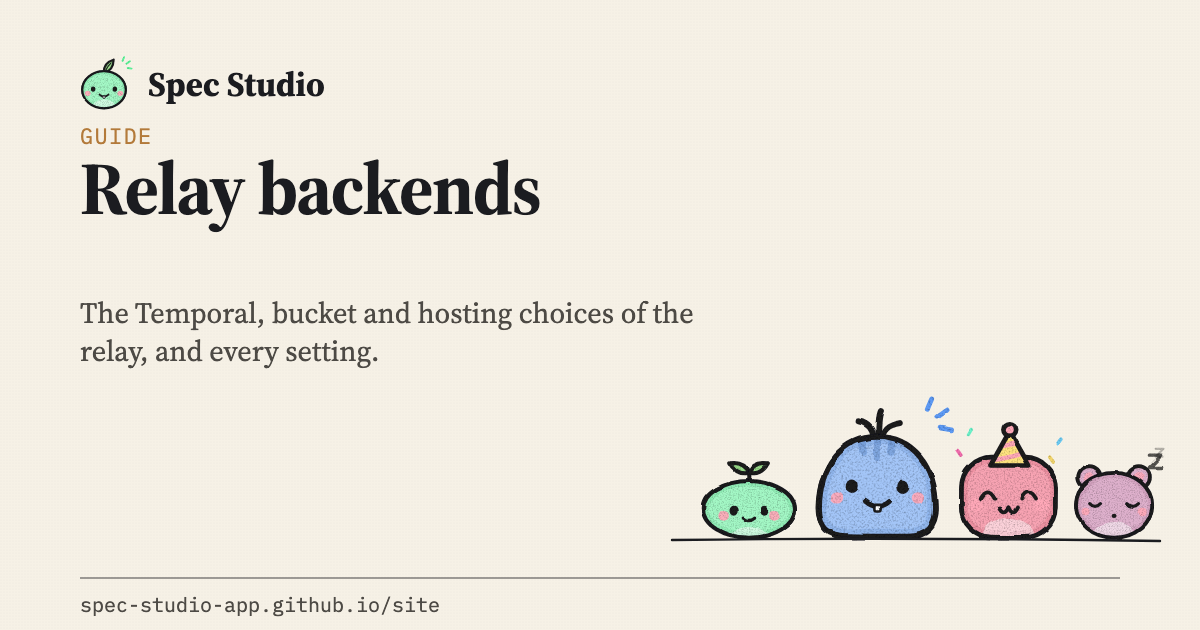
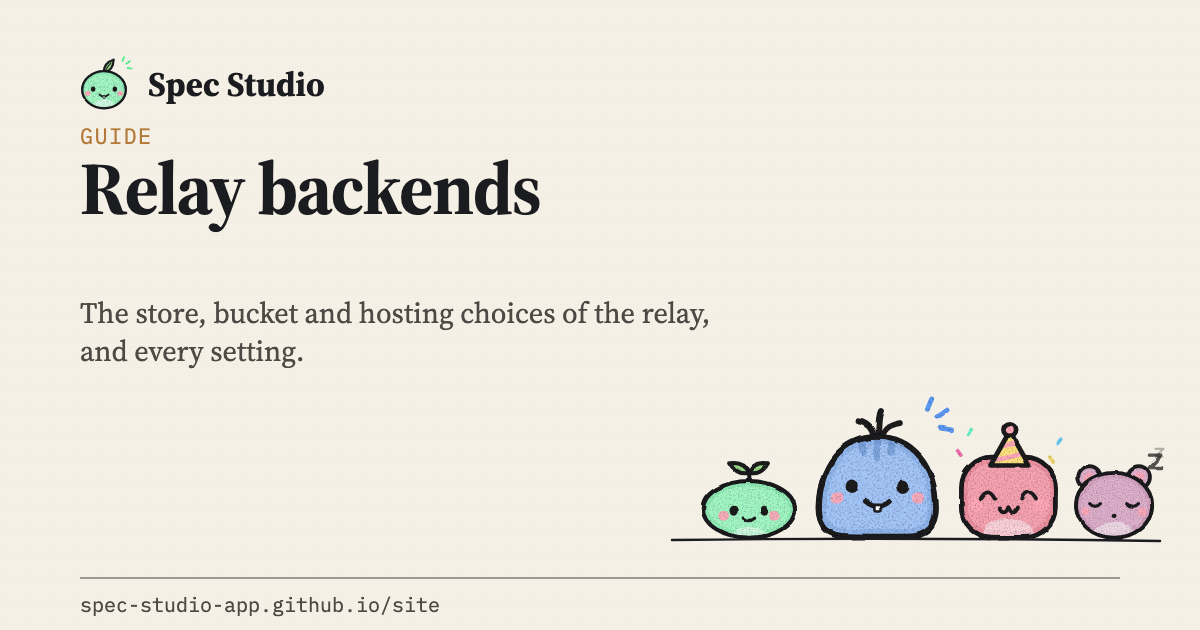
Pluggable relay store: the relay guides (#4)
* Relay guides: the JSON store by default, Temporal as an option (relay 0.4.0)

* Guide tests: the new step and section headings

* Relay guides: a store switch uses studio agent unpair --force, then pair

* Share card and video script: the store, not Temporal only (review)

Changed region(s): [[0.0617, 0.4825, 0.5858, 0.6032]]

diff --git a/tests/guides.spec.ts b/tests/guides.spec.ts
@@ -106,8 +106,8 @@ test('the relay guide gives the steps in order, with the Remote Relay screenshot
 	await page.goto('./guides/relay/');
 	const steps = (await headings(page)).filter((h) => h.startsWith('Step '));
 	expect(steps).toEqual([
-		'Step 1: Make the secrets',
-		'Step 2: Choose a Temporal backend',
+		'Step 1: Make the password hash',
+		'Step 2: Choose the store',
 		'Step 3: Choose a bucket (optional)',
 		'Step 4: Run the relay',
 		'Step 5: Pair the Mac',
@@ -130,9 +130,9 @@ test('the tools table gives each tool online and offline', async ({ page }) => {
 });
 
 // R5.S1, R5.S2 and R5.S3
-test('the backends guide covers each Temporal, bucket and run choice', async ({ page }) => {
+test('the backends guide covers each store, bucket and run choice', async ({ page }) => {
 	await page.goto('./guides/backends/');
-	expect(await headings(page)).toEqual(['Temporal', 'The attachment bucket', 'Ways to run the relay', 'Every setting']);
+	expect(await headings(page)).toEqual(['The JSON store', 'The Temporal store', 'Switch between stores', 'The attachment bucket', 'Ways to run the relay', 'Every setting']);
 	expect(await headings(page, 'h3')).toEqual([
 		'Temporal Cloud with an API key',
 		'Temporal Cloud with mTLS',

diff --git a/src/guides/backends.md b/src/guides/backends.md
@@ -1,14 +1,37 @@
 ---
 title: Relay backends
-summary: The Temporal, bucket and hosting choices of the relay, and every setting.
+summary: The store, bucket and hosting choices of the relay, and every setting.
 order: 4
 ---
 
-The relay keeps no state of its own. It plugs into two backends that you choose: a **Temporal** namespace that holds the copy of each spec, the messages and the sign-ins, and an optional **bucket** that holds the attachments. You also choose **how to run** it. This guide gives the settings for each choice. The relay reads every setting from the environment.
+The relay plugs into two backends that you choose: a **store** that holds the copy of each spec, the messages and the sign-ins, and an optional **bucket** that holds the attachments. The store is **JSON files** on a volume (the default) or your own **Temporal** namespace. You also choose **how to run** the relay. This guide gives the settings for each choice. The relay reads every setting from the environment.
 
-## Temporal
+`RELAY_STORE` selects the store: `json` or `temporal`. When `RELAY_STORE` is not set, the relay uses the Temporal store if `TEMPORAL_ADDRESS` is set, else the JSON store. At start, the relay logs the store and the reason (`store_selected`).
 
-The relay needs one Temporal namespace. Two relays can share a namespace when each has its own `DEPLOY_ID`.
+## The JSON store
+
+The JSON store is the default. The relay is one container and a volume, with no other service. There is no Temporal, there are no payload keys and there are no codec endpoints.
+
+The relay keeps its state in `RELAY_DATA_DIR` (default `/data`). Mount a persistent volume there: without a volume, the state is lost with the container. The image runs as uid 1000, and that user must be able to write to the folder. When it cannot, the relay stops at start with a message that names `RELAY_DATA_DIR`.
+
+```sh
+RELAY_STORE=json
+RELAY_DATA_DIR=/data
+```
+
+Both settings are optional: with no Temporal settings, the relay uses the JSON store in `/data`.
+
+The files are not encrypted, and they hold only hashes of the secrets and the tokens. Protect the volume as you protect the relay. Run one relay process on the volume: only that process writes the files. Run `relay pair-code` where the relay runs, on the same data folder.
+
+## The Temporal store
+
+Use the Temporal store when you already run Temporal. Set `TEMPORAL_ADDRESS` (or `RELAY_STORE=temporal` with `TEMPORAL_ADDRESS`), `PAYLOAD_KEYS` and the other Temporal settings below. The relay needs one Temporal namespace. Two relays can share a namespace when each has its own `DEPLOY_ID`.
+
+Make the payload keys. The relay encrypts every Temporal payload with them. Keep a copy in a safe place: without the same keys, the relay cannot read its data. See [PAYLOAD_KEYS](#payload-keys).
+
+```sh
+docker run --rm ghcr.io/spec-studio-app/relay keys
+```
 
 ### Temporal Cloud with an API key
 
@@ -71,11 +94,21 @@ TEMPORAL_NAMESPACE=studio-relay
 TEMPORAL_AUTH=plain
 ```
 
-To try the relay on one machine, Docker Compose can run a local Temporal dev server for you (see [Docker Compose](#docker-compose)).
+To try the Temporal store on one machine, Docker Compose can run a local Temporal dev server for you (see [Docker Compose](#docker-compose)).
+
+## Switch between stores
+
+The relay does not move data from one store to the other. A relay on a new store starts empty:
+
+- The Mac fills the new store with a short first sync of each spec (the state of the spec, its last 20 activity lines and its messages for Claude AI) when it has no sync cursors. So on the Mac, run `studio agent unpair --force` (it removes the pairing and the cursors on this Mac only), then pair again (see [Pair the Mac](/guides/relay/#step-5-pair-the-mac)).
+- The messages that wait for the Mac in the old store are lost. The messages for Claude AI that Claude AI did not read are lost too. So switch when no message waits: the Mac is online and has each message, and Claude AI read its messages.
+- The pairing and the sign-ins are in the store too. After the switch, sign in to the connector in Claude AI again.
+
+An upgrade from relay 0.3 keeps Temporal: the old settings set `TEMPORAL_ADDRESS`, so the relay uses the Temporal store. With the Compose `dev` profile of 0.3, add `TEMPORAL_ADDRESS=temporal:7233` to `.env`, because the 0.4 `compose.yaml` does not set it.
 
 ## The attachment bucket
 
-Attachments go to a private S3-compatible bucket, never into Temporal. The relay deletes the attachments of a spec when the spec is merged or dropped. Set all four of `BUCKET_ENDPOINT`, `BUCKET_NAME`, `BUCKET_ACCESS_KEY` and `BUCKET_SECRET_KEY`, or none.
+Attachments go to a private S3-compatible bucket, never into the store. The relay deletes the attachments of a spec when the spec is merged or dropped. Set all four of `BUCKET_ENDPOINT`, `BUCKET_NAME`, `BUCKET_ACCESS_KEY` and `BUCKET_SECRET_KEY`, or none.
 
 ### Cloudflare R2
 
@@ -129,51 +162,86 @@ Get `compose.yaml` from the [relay repo](https://github.com/spec-studio-app/rela
 ```sh
 PUBLIC_URL=https://relay.example.com
 OWNER_PASSWORD_HASH='$2b$12$...'
-PAYLOAD_KEYS=data:data-20261123:...,config:config-20261123:...
 ```
 
-To try the relay with a local Temporal dev server (data in a Docker volume, the Temporal Web UI on port 8233 of this machine only, because it has no sign-in):
-
-```sh
-docker compose --profile dev up
-```
-
-With your own Temporal, set `TEMPORAL_ADDRESS` and the other Temporal settings in `.env`, then:
+Then run:
 
 ```sh
 docker compose up
 ```
 
+The relay uses the JSON store, with its data in the Docker volume `relay-data`.
+
+With your own Temporal, also set `TEMPORAL_ADDRESS`, `PAYLOAD_KEYS` and the other Temporal settings in `.env`, then run `docker compose up`.
+
+To try the Temporal store with a local Temporal dev server (data in a Docker volume, the Temporal Web UI on port 8233 of this machine only, because it has no sign-in), add these settings to `.env`:
+
+```sh
+TEMPORAL_ADDRESS=temporal:7233
+PAYLOAD_KEYS=data:data-20261123:...,config:config-20261123:...
+```
+
+Then run:
+
+```sh
+docker compose --profile dev up
+```
+
 ### Helm
+
+With the JSON store (the default), the chart makes a PersistentVolumeClaim and keeps it when you remove the release:
 
 ```sh
 helm install relay oci://ghcr.io/spec-studio-app/charts/relay --version <version> \
   --set publicUrl=https://relay.example.com \
-  --set temporal.address=temporal-frontend.temporal.svc:7233 \
-  --set temporal.namespace=studio-relay \
   --set bucket.endpoint=https://<account id>.r2.cloudflarestorage.com \
   --set bucket.name=spec-studio-relay \
   --set existingSecret=relay-secrets
 ```
 
-The Secret `existingSecret` has the keys `OWNER_PASSWORD_HASH`, `PAYLOAD_KEYS`, and as needed `TEMPORAL_API_KEY`, `TEMPORAL_TLS_CERT`, `TEMPORAL_TLS_KEY`, `BUCKET_ACCESS_KEY` and `BUCKET_SECRET_KEY`. Or leave `existingSecret` empty and set `secrets.*` in your values: the chart then makes the Secret. Set `ingress.enabled=true` and `ingress.host` for an Ingress. The chart's `values.yaml` lists every value.
+These values set the volume:
+
+- `persistence.size`: the size of the claim. Default `1Gi`.
+- `persistence.storageClass`: the storage class. Empty: the default storage class of the cluster.
+- `persistence.existingClaim`: the name of a claim that you made. Empty: the chart makes the claim.
+
+The chart runs one replica with the `Recreate` strategy, so an old pod and a new pod never write the files at the same time.
+
+With the Temporal store, set `store=temporal` and the Temporal values:
+
+```sh
+helm install relay oci://ghcr.io/spec-studio-app/charts/relay --version <version> \
+  --set publicUrl=https://relay.example.com \
+  --set store=temporal \
+  --set temporal.address=temporal-frontend.temporal.svc:7233 \
+  --set temporal.namespace=studio-relay \
+  --set existingSecret=relay-secrets
+```
+
+When `store` is empty, the chart uses the rule of the relay: `temporal` when `temporal.address` is set, else `json`.
+
+The Secret `existingSecret` has the key `OWNER_PASSWORD_HASH`, and as needed `PAYLOAD_KEYS` (Temporal store), `TEMPORAL_API_KEY`, `TEMPORAL_TLS_CERT`, `TEMPORAL_TLS_KEY`, `BUCKET_ACCESS_KEY` and `BUCKET_SECRET_KEY`. Or leave `existingSecret` empty and set `secrets.*` in your values: the chart then makes the Secret. Set `ingress.enabled=true` and `ingress.host` for an Ingress. The chart's `values.yaml` lists every value.
 
 ### Docker
 
 ```sh
-docker run -d --name relay -p 8760:8760 --env-file relay.env ghcr.io/spec-studio-app/relay:<version>
+docker run -d --name relay -p 8760:8760 -v relay-data:/data --env-file relay.env ghcr.io/spec-studio-app/relay:<version>
 ```
+
+The volume `relay-data` holds the files of the JSON store. With the Temporal store, the relay does not use it.
 
 ## Every setting
 
-A setting that is missing or not valid stops the start. The message names the setting and never shows its value.
+A setting that is missing or not valid stops the start. The message names the setting and never shows its value. The settings marked "Temporal" are required only with the Temporal store. The JSON store ignores the Temporal settings.
 
 | Setting | Required | Description |
 |---|---|---|
 | `PUBLIC_URL` | yes | The public origin of the relay. It is the OAuth issuer. |
 | `OWNER_PASSWORD_HASH` | yes | The bcrypt hash of the owner password. |
-| `PAYLOAD_KEYS` | yes | The codec keys, from `relay keys`. See below. |
-| `TEMPORAL_ADDRESS` | yes | `host:port` of Temporal. |
+| `RELAY_STORE` | no | `json` or `temporal`. Default: `temporal` when `TEMPORAL_ADDRESS` is set, else `json`. |
+| `RELAY_DATA_DIR` | no | The folder of the JSON store. Default `/data`. |
+| `PAYLOAD_KEYS` | Temporal | The codec keys, from `relay keys`. See below. |
+| `TEMPORAL_ADDRESS` | Temporal | `host:port` of Temporal. |
 | `TEMPORAL_NAMESPACE` | no | The namespace. Default `default`. |
 | `TEMPORAL_AUTH` | no | `plain`, `tls`, `mtls` or `api-key`. Default: from the other Temporal settings, else `plain`. |
 | `TEMPORAL_API_KEY` | no | The API key (Temporal Cloud). |
@@ -183,14 +251,14 @@ A setting that is missing or not valid stops the start. The message names the se
 | `BUCKET_ENDPOINT`, `BUCKET_NAME`, `BUCKET_ACCESS_KEY`, `BUCKET_SECRET_KEY` | no | The attachment bucket. Set all four, or none. |
 | `BUCKET_REGION` | no | The bucket region. Default `auto` (R2). |
 | `ATTACHMENT_MAX_BYTES` | no | The largest attachment. Default 10485760 (10 MB). |
-| `UI_ORIGIN` | no | The origin of the Temporal Web UI for the codec endpoints. |
+| `UI_ORIGIN` | no | The origin of the Temporal Web UI for the codec endpoints (Temporal store). |
 | `EXTRA_REDIRECT_URIS` | no | Comma-separated OAuth redirect URIs, besides the claude.ai and claude.com callbacks and loopback addresses. |
 | `PORT` | no | The HTTP port. Default 8760. |
 | `CALL_TIMEOUT_MS` | no | How long a tool call waits for the Mac. Default 90000. |
 
 ### PAYLOAD_KEYS
 
-A comma-separated list of `<scope>:<key id>:<base64 key>`. The scope is `data` (the spec workflows) or `config` (the relay-config workflow). Each key is 32 random bytes; `relay keys` makes a new value. The first key of each scope encrypts. All keys of a scope decrypt, so you can change a key: put the new key first and keep the old key after it.
+The Temporal store only. A comma-separated list of `<scope>:<key id>:<base64 key>`. The scope is `data` (the spec workflows) or `config` (the relay-config workflow). Each key is 32 random bytes; `relay keys` makes a new value. The first key of each scope encrypts. All keys of a scope decrypt, so you can change a key: put the new key first and keep the old key after it.
 
 ```sh
 PAYLOAD_KEYS=data:data-2:<new>,data:data-1:<old>,config:config-1:<key>

diff --git a/src/guides/relay.md b/src/guides/relay.md
@@ -8,35 +8,30 @@ order: 3
 
 The relay is a remote MCP server that you host yourself. With it, Claude AI (claude.ai, the Claude app on your phone, or Claude Code on another computer) can list, read, make and start the specs of Spec Studio on your Mac, and send messages to the Claude session of a spec.
 
-The relay keeps a copy of each spec in your own Temporal namespace. So Claude AI can read your specs and leave messages while the Mac is offline. The messages wait in the relay, and the Mac gets them when it connects again.
+The relay keeps a copy of each spec in a store. The default store is JSON files on a volume. You can also use your own Temporal namespace. So Claude AI can read your specs and leave messages while the Mac is offline. The messages wait in the relay, and the Mac gets them when it connects again.
 
 The Mac opens no port. The Spec Studio agent on the Mac connects out to the relay.
 
 ```text
 Claude AI ──HTTPS (OAuth)──▶ relay ◀──WebSocket── studio agent (Mac)
                                │
-                 Temporal (spec mirror, inboxes, sign-ins)
-                 S3 bucket (attachments)
+                 JSON files on a volume, or Temporal (spec mirror, inboxes, sign-ins)
+                 S3 bucket (attachments, optional)
 ```
 
 The relay is for you only. It has one owner password and no sign-up. Its code is public in [spec-studio-app/relay](https://github.com/spec-studio-app/relay).
 
 ## What you need
 
-- A Temporal namespace: Temporal Cloud, or a Temporal that you host.
 - A public HTTPS address for the relay, for example `https://relay.example.com`.
-- Optional: a private S3-compatible bucket for attachments.
 - Docker, or a Kubernetes cluster with Helm.
+- For the JSON store (the default): a persistent volume for the data folder of the relay.
+- For the Temporal store (optional): a Temporal namespace, on Temporal Cloud or on a Temporal that you host.
+- Optional: a private S3-compatible bucket for attachments.
 
-[Relay backends](/guides/backends/) explains each Temporal and bucket choice and every setting.
+[Relay backends](/guides/backends/) explains each store, bucket and hosting choice, and every setting.
 
-## Step 1: Make the secrets
-
-Make the payload keys. The relay encrypts every Temporal payload with them. Keep a copy in a safe place: without the same keys, the relay cannot read its data.
-
-```sh
-docker run --rm ghcr.io/spec-studio-app/relay keys
-```
+## Step 1: Make the password hash
 
 Make the bcrypt hash of the owner password. You type this password on the relay's sign-in page. The command asks for the password, so it does not go into your shell history:
 
@@ -44,19 +39,30 @@ Make the bcrypt hash of the owner password. You type this password on the relay'
 read -rs RELAY_PASSWORD && printf '%s' "$RELAY_PASSWORD" | docker run --rm -i ghcr.io/spec-studio-app/relay password-hash; unset RELAY_PASSWORD
 ```
 
-## Step 2: Choose a Temporal backend
+## Step 2: Choose the store
 
-Use Temporal Cloud, or a Temporal that you host. On Temporal Cloud, add the relay's search attributes to the namespace first; a self-hosted Temporal gets them from the relay at start. See [Temporal](/guides/backends/#temporal) for the settings of each.
+The relay keeps its copy of the specs, the messages and the sign-ins in one of two stores. `RELAY_STORE` selects the store: `json` or `temporal`. When `RELAY_STORE` is not set, the relay uses the Temporal store if `TEMPORAL_ADDRESS` is set, else the JSON store.
+
+- **The JSON store** (the default): JSON files in `RELAY_DATA_DIR` (default `/data`). Mount a persistent volume there. The relay is one container and a volume, with no other service. There are no payload keys and no codec endpoints. See [The JSON store](/guides/backends/#the-json-store).
+- **The Temporal store**: your own Temporal namespace, on Temporal Cloud or on a Temporal that you host. Use it when you already run Temporal. This store also needs the payload keys. See [The Temporal store](/guides/backends/#the-temporal-store).
+
+To use the Temporal store, make the payload keys. The relay encrypts every Temporal payload with them. Keep a copy in a safe place: without the same keys, the relay cannot read its data.
+
+```sh
+docker run --rm ghcr.io/spec-studio-app/relay keys
+```
+
+The relay does not move data from one store to the other. See [Switch between stores](/guides/backends/#switch-between-stores) before you change the store.
 
 ## Step 3: Choose a bucket (optional)
 
-Attachments go to a private bucket, never into Temporal. Without a bucket the relay works, but messages cannot have attachments. Cloudflare R2, AWS S3 and MinIO all work. See [The attachment bucket](/guides/backends/#the-attachment-bucket).
+Attachments go to a private bucket, never into the store. Without a bucket the relay works, but messages cannot have attachments. Cloudflare R2, AWS S3 and MinIO all work. See [The attachment bucket](/guides/backends/#the-attachment-bucket).
 
 ## Step 4: Run the relay
 
 Run it with Docker Compose, Helm or Docker, and put an HTTPS proxy (Caddy, Traefik, Cloudflare Tunnel) in front of port 8760. See [Ways to run the relay](/guides/backends/#ways-to-run-the-relay).
 
-Run one relay process for each deploy. The relay keeps the one connection from the Mac in its process, so do not run two replicas of one deploy.
+Run one relay process for each deploy. The relay keeps the one connection from the Mac in its process, so do not run two replicas of one deploy. With the JSON store, the state is in the files of that one process too.
 
 ## Step 5: Pair the Mac
 
@@ -78,10 +84,11 @@ Or run the command from the log in a terminal:
 studio agent pair wss://relay.example.com/agent K7QM-2XRD-9VHP
 ```
 
-The code works once. For a new code, run `relay pair-code` where the relay runs:
+The code works once. For a new code, run `relay pair-code` where the relay runs. With the JSON store, run it on the same data folder as the relay:
 
 ```sh
 docker compose exec relay relay pair-code
+kubectl exec deploy/relay -- relay pair-code
 ```
 
 The relay keeps only the SHA-256 of the Mac's secret. To unpair, use the Remote Relay pane, or run `studio agent unpair`.
@@ -109,8 +116,10 @@ A message reaches the spec's Claude session as "Message from Claude AI". The ses
 
 ## The Temporal Web UI
 
+This section is for the Temporal store only. A relay on the JSON store has no codec endpoints.
+
 The payloads in Temporal are encrypted. The Web UI can show the payloads of the spec workflows through the relay's codec endpoints:
 
-1. Set `UI_ORIGIN` to the origin of the Web UI, for example `https://cloud.temporal.io`.
+1. Set `UI_ORIGIN` to the origin of the Web UI, for example `https://cloud.temporal.io` or `http://localhost:8233`.
 2. Open `https://relay.example.com/codec/signin` and sign in with the owner password. The sign-in lasts 12 hours.
 3. In the Web UI, set the codec endpoint to `https://relay.example.com/codec` and turn on "Include cross-origin credentials".
